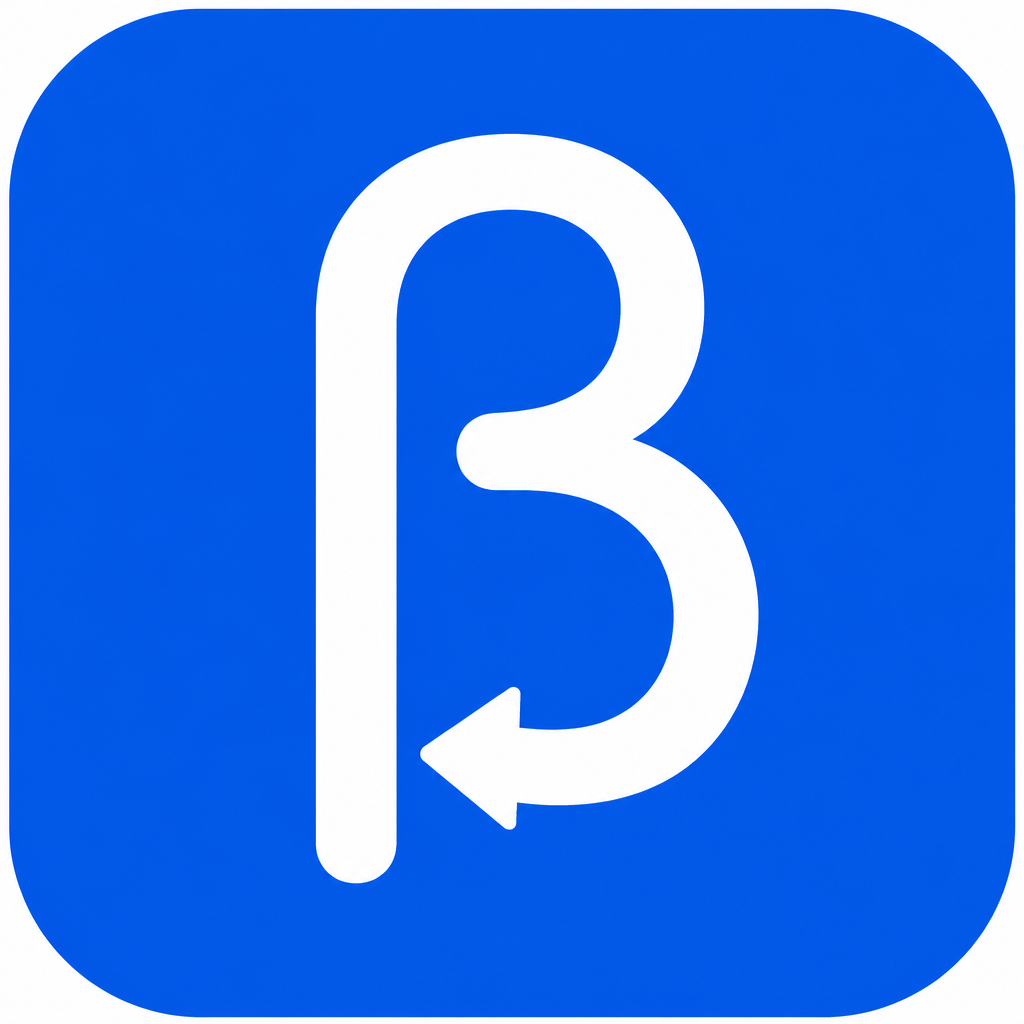
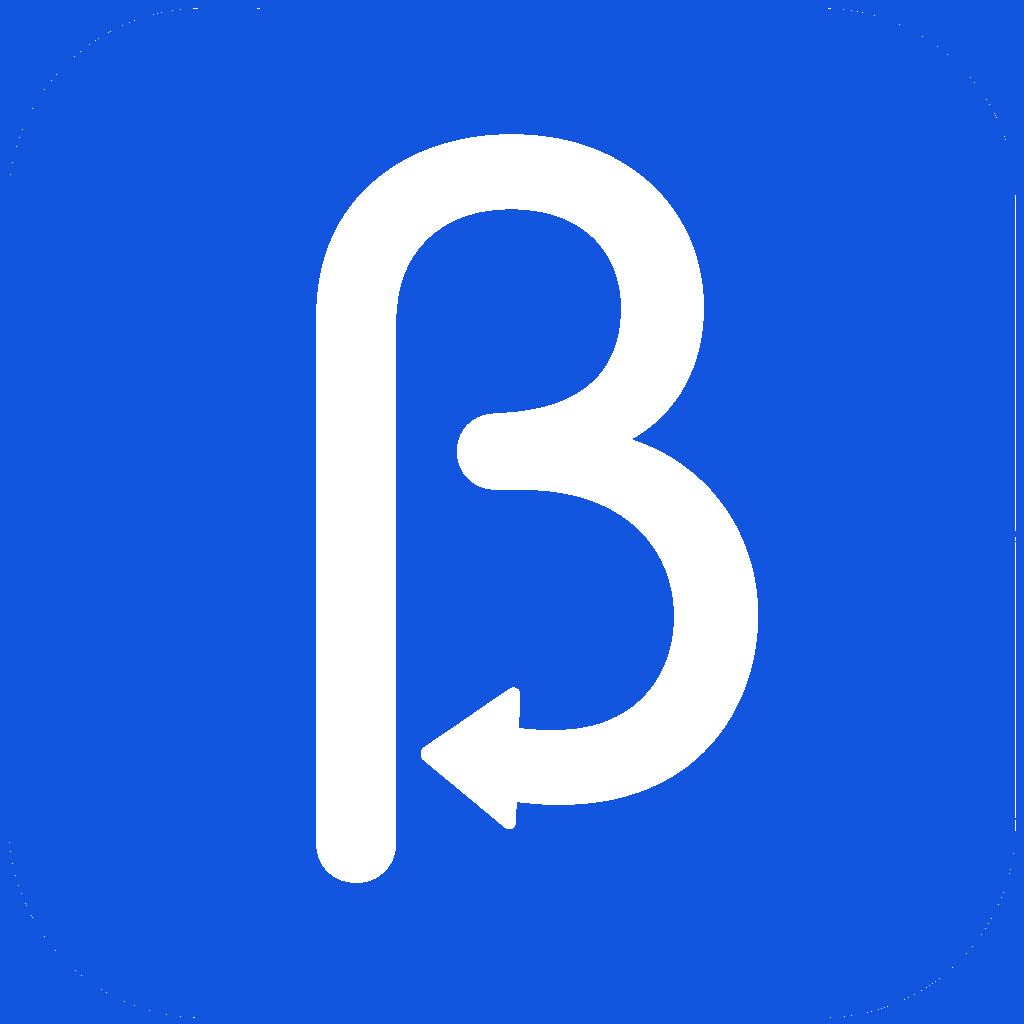
feat: app-review access

Changed region(s): [[0.0, 0.0, 1.0, 1.0]]

diff --git a/betafeedback_mobile/lib/widgets/brand_mark.dart b/betafeedback_mobile/lib/widgets/brand_mark.dart
@@ -1,9 +1,8 @@
 import 'package:flutter/material.dart';
-import 'package:flutter_svg/flutter_svg.dart';
 
 import '../theme/app_tokens.dart';
 
-/// Official BetaFeedback mark (β with feedback return on signal blue).
+/// Official BetaFeedback mark — same asset as the app launcher icon.
 class BrandMark extends StatelessWidget {
   const BrandMark({super.key, this.size = 34, this.borderRadius});
 
@@ -12,24 +11,29 @@ class BrandMark extends StatelessWidget {
 
   @override
   Widget build(BuildContext context) {
-    return SvgPicture.asset(
-      'assets/brand/mark.svg',
-      width: size,
-      height: size,
-      fit: BoxFit.contain,
-      placeholderBuilder: (_) => _FallbackMark(size: size),
+    final radius = borderRadius ?? (size * 0.22);
+    return ClipRRect(
+      borderRadius: BorderRadius.circular(radius),
+      child: Image.asset(
+        'assets/brand/app-icon-full.png',
+        width: size,
+        height: size,
+        fit: BoxFit.cover,
+        filterQuality: FilterQuality.high,
+        errorBuilder: (_, _, _) => _FallbackMark(size: size, radius: radius),
+      ),
     );
   }
 }
 
 class _FallbackMark extends StatelessWidget {
-  const _FallbackMark({required this.size});
+  const _FallbackMark({required this.size, required this.radius});
 
   final double size;
+  final double radius;
 
   @override
   Widget build(BuildContext context) {
-    final radius = size * 0.22;
     return Container(
       width: size,
       height: size,

diff --git a/betafeedback_web/src/components/Brand.tsx b/betafeedback_web/src/components/Brand.tsx
@@ -1,37 +1,18 @@
+import Image from "next/image";
 import Link from "next/link";
 
-/** Inline SVG — transparent canvas, no PNG white corners. */
-function BrandMarkIcon({ size = 34 }: { size?: number }) {
-  return (
-    <svg
-      xmlns="http://www.w3.org/2000/svg"
-      viewBox="0 0 64 64"
-      width={size}
-      height={size}
-      fill="none"
-      aria-hidden="true"
-    >
-      <rect width="64" height="64" rx="14" fill="#1256E0" />
-      <path
-        stroke="#FFFFFF"
-        strokeWidth="6.75"
-        strokeLinecap="round"
-        strokeLinejoin="round"
-        d="M23 13.5V46.5c0 6.5 5.2 10.5 12.5 10.5C44 57 50 51.8 50 44.5c0-6.5-4.8-10.3-12.5-11.5C44.8 31.5 49.5 26.8 49.5 20.5 49.5 13.2 43 9.5 34.5 9.5c-4.3 0-8.3 1.1-11.5 3.3"
-      />
-      <path
-        fill="#FFFFFF"
-        d="M23.5 54.5 14.8 47.6c-.8-.6-.8-1.9 0-2.5l8.7-6.9c1-.8 2.5-.1 2.5 1.2v3.8h9.5c1 0 1.8.8 1.8 1.8s-.8 1.8-1.8 1.8H26v3.8c0 1.3-1.5 2-2.5 1.9Z"
-      />
-    </svg>
-  );
-}
-
+/** Same full-bleed mark as the mobile app icon. */
 export function Brand() {
   return (
     <Link className="brand" href="/" aria-label="BetaFeedback home">
       <span className="brand__mark" aria-hidden="true">
-        <BrandMarkIcon />
+        <Image
+          src="/brand/app-icon.png"
+          alt=""
+          width={34}
+          height={34}
+          priority
+        />
       </span>
       <span className="brand__name">BetaFeedback</span>
     </Link>

diff --git a/betafeedback_web/src/app/globals.css b/betafeedback_web/src/app/globals.css
@@ -170,11 +170,14 @@ a { color: inherit; text-decoration: none; }
   flex-shrink: 0;
   line-height: 0;
   background: transparent;
+  border-radius: 10px;
+  overflow: hidden;
 }
-.brand__mark svg {
+.brand__mark img {
   display: block;
   width: 34px;
   height: 34px;
+  object-fit: cover;
 }
 .brand__name { letter-spacing: -0.03em; font-size: 1.08rem; }
 .nav__links {
@@ -876,7 +879,8 @@ a { color: inherit; text-decoration: none; }
 .join-card .brand__mark {
   background: transparent;
   border: 0;
-  overflow: visible;
+  border-radius: 10px;
+  overflow: hidden;
 }
 .join-card h1 { font-size: 1.7rem; font-weight: 700; }
 .join-card h1 .grad { display: inline; }

diff --git a/betafeedback_web/src/app/layout.tsx b/betafeedback_web/src/app/layout.tsx
@@ -35,10 +35,10 @@ export const metadata: Metadata = {
   },
   icons: {
     icon: [
+      { url: "/brand/app-icon.png", type: "image/png", sizes: "1024x1024" },
       { url: "/favicon.svg", type: "image/svg+xml" },
-      { url: "/brand/mark.svg", type: "image/svg+xml" },
     ],
-    apple: "/brand/mark.svg",
+    apple: "/brand/app-icon.png",
   },
 };
 

diff --git a/betafeedback_backend/internal/api/auth.go b/betafeedback_backend/internal/api/auth.go
@@ -19,7 +19,15 @@ import (
 const (
 	tokenTTL = 7 * 24 * time.Hour
 	otpTTL   = 10 * time.Minute
+
+	// Fixed credentials for App Store / Play Store review accounts.
+	appReviewEmail = "appreview@betafeedback.com"
+	appReviewOTP   = "000000"
 )
+
+func isAppReviewEmail(email string) bool {
+	return strings.EqualFold(strings.TrimSpace(email), appReviewEmail)
+}
 
 // jwtManager issues and verifies signed session tokens.
 type jwtManager struct {
@@ -67,6 +75,9 @@ func newOTPStore() *otpStore {
 
 func (o *otpStore) generate(email string) string {
 	code := randomCode()
+	if isAppReviewEmail(email) {
+		code = appReviewOTP
+	}
 	o.mu.Lock()
 	o.codes[strings.ToLower(email)] = otpEntry{code: code, expires: time.Now().Add(otpTTL)}
 	o.mu.Unlock()
@@ -75,6 +86,13 @@ func (o *otpStore) generate(email string) string {
 
 func (o *otpStore) verify(email, code string) bool {
 	key := strings.ToLower(email)
+	code = strings.TrimSpace(code)
+	if isAppReviewEmail(email) && code == appReviewOTP {
+		o.mu.Lock()
+		delete(o.codes, key)
+		o.mu.Unlock()
+		return true
+	}
 	o.mu.Lock()
 	defer o.mu.Unlock()
 	entry, ok := o.codes[key]
@@ -129,9 +147,12 @@ func (s *Server) authEmailStart(w http.ResponseWriter, r *http.Request) {
 		s.logger.Info("otp issued", "email", email)
 	}
 
-	if err := s.mailer.SendOTP(r.Context(), email, code); err != nil {
-		s.serverError(w, "send otp email", err)
-		return
+	// App review account uses a fixed code; skip email so delivery never blocks reviewers.
+	if !isAppReviewEmail(email) {
+		if err := s.mailer.SendOTP(r.Context(), email, code); err != nil {
+			s.serverError(w, "send otp email", err)
+			return
+		}
 	}
 
 	resp := map[string]any{"expires_in": int(otpTTL.Seconds())}
